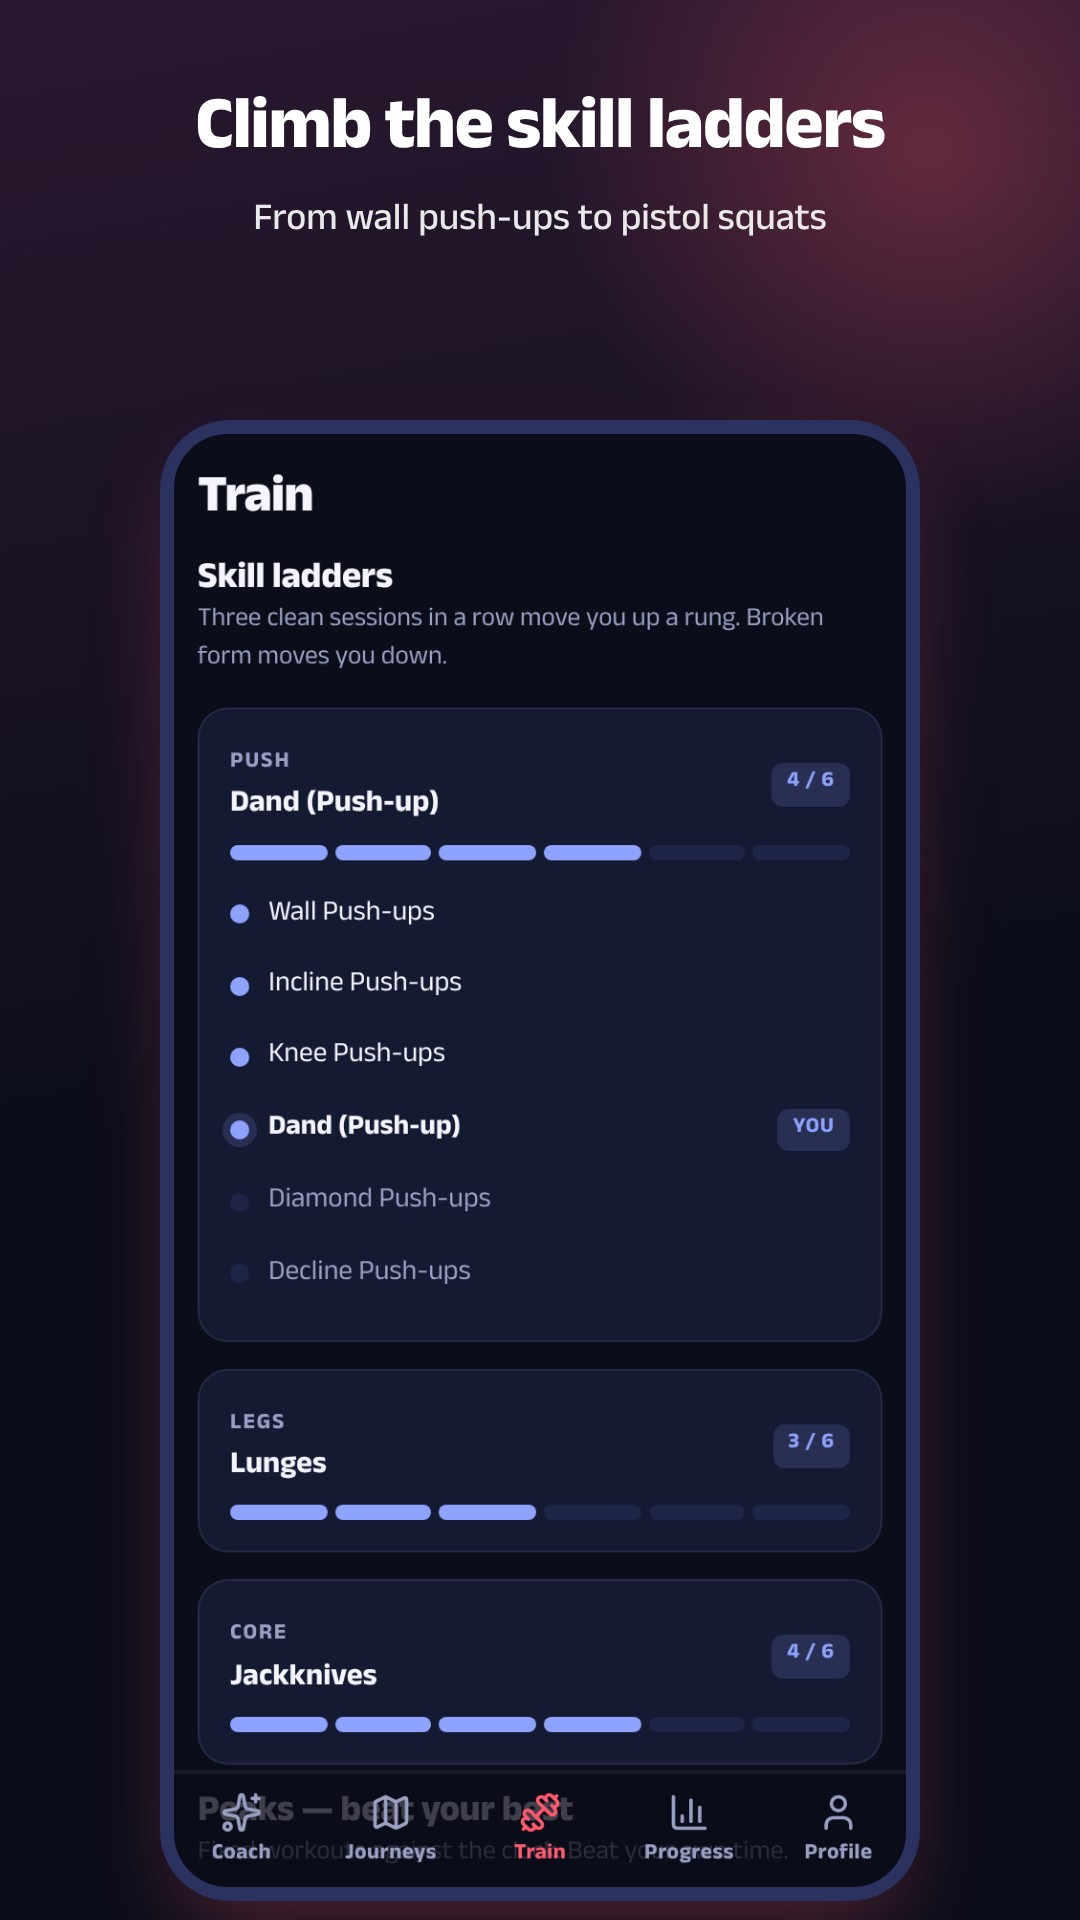
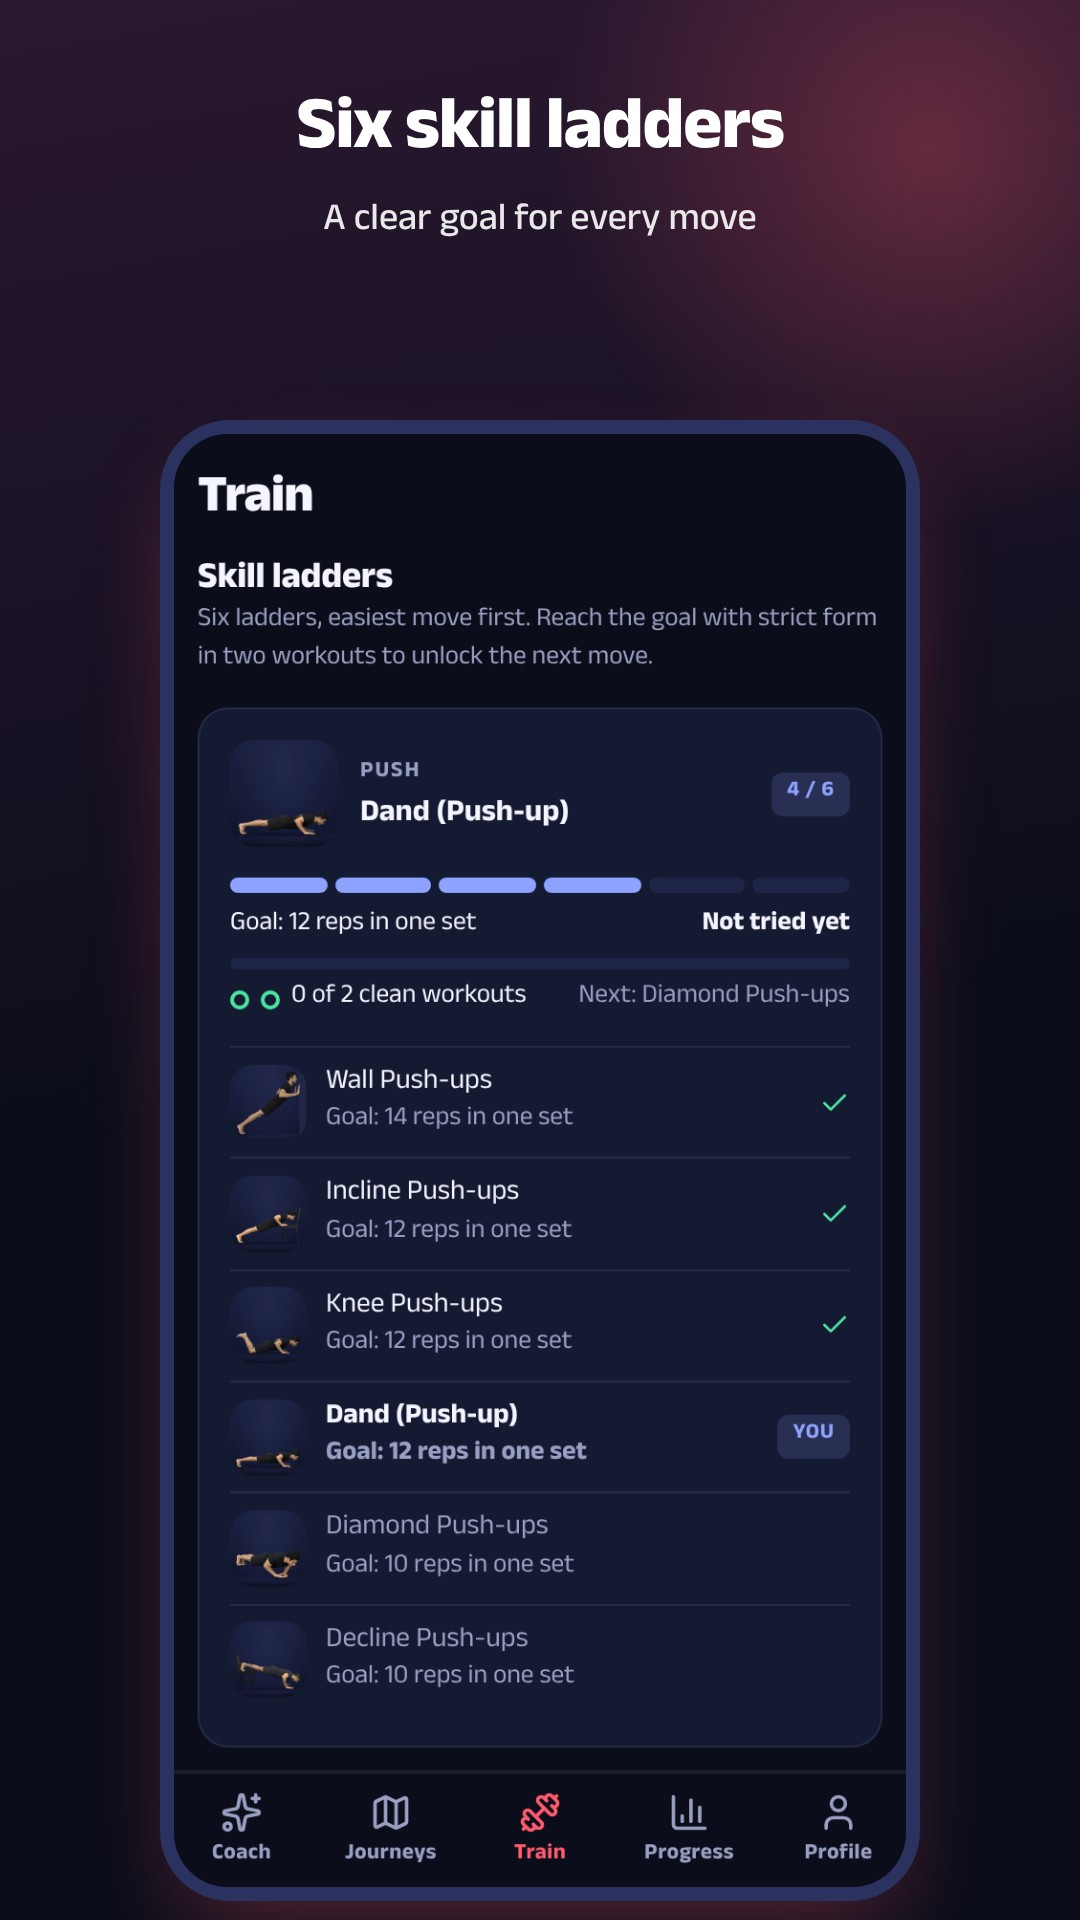
Refresh Play Store screenshots; solid tab bar
Screenshots show the new photos, the week planner, per-move rating and the six ladders, in
English and Hindi. The screenshot script now signs in (against the Firebase emulators) because
sign-in is required. The tab bar is now solid so content never shows through it.

Claude-Session: https://claude.ai/code/session_01T9tLQk57EDzJVC7tGAWfUb

diff --git a/src/styles.css b/src/styles.css
@@ -114,7 +114,7 @@ b { font-weight: 700; }
 .input::placeholder, .input input::placeholder { color: var(--muted); }
 label.field { display: flex; flex-direction: column; gap: 6px; font-weight: 650; font-size: 0.9rem; }
 
-.tabbar { position: fixed; bottom: 0; left: 50%; transform: translateX(-50%); width: 100%; max-width: 480px; display: flex; background: rgba(11, 13, 26, 0.78); backdrop-filter: blur(18px) saturate(1.3); -webkit-backdrop-filter: blur(18px) saturate(1.3); border-top: 1px solid var(--line); box-shadow: inset 0 1px 0 rgba(255, 255, 255, 0.05); padding-bottom: env(safe-area-inset-bottom); z-index: 5; }
+.tabbar { position: fixed; bottom: 0; left: 50%; transform: translateX(-50%); width: 100%; max-width: 480px; display: flex; background: var(--bg); border-top: 1px solid var(--line); box-shadow: inset 0 1px 0 rgba(255, 255, 255, 0.05); padding-bottom: env(safe-area-inset-bottom); z-index: 5; }
 .tabbar button { flex: 1; display: flex; flex-direction: column; align-items: center; gap: 3px; padding: 10px 2px 8px; font-size: 0.72rem; font-weight: 700; color: var(--muted); letter-spacing: 0.02em; }
 .tabbar button.on { color: var(--brand); }
 
